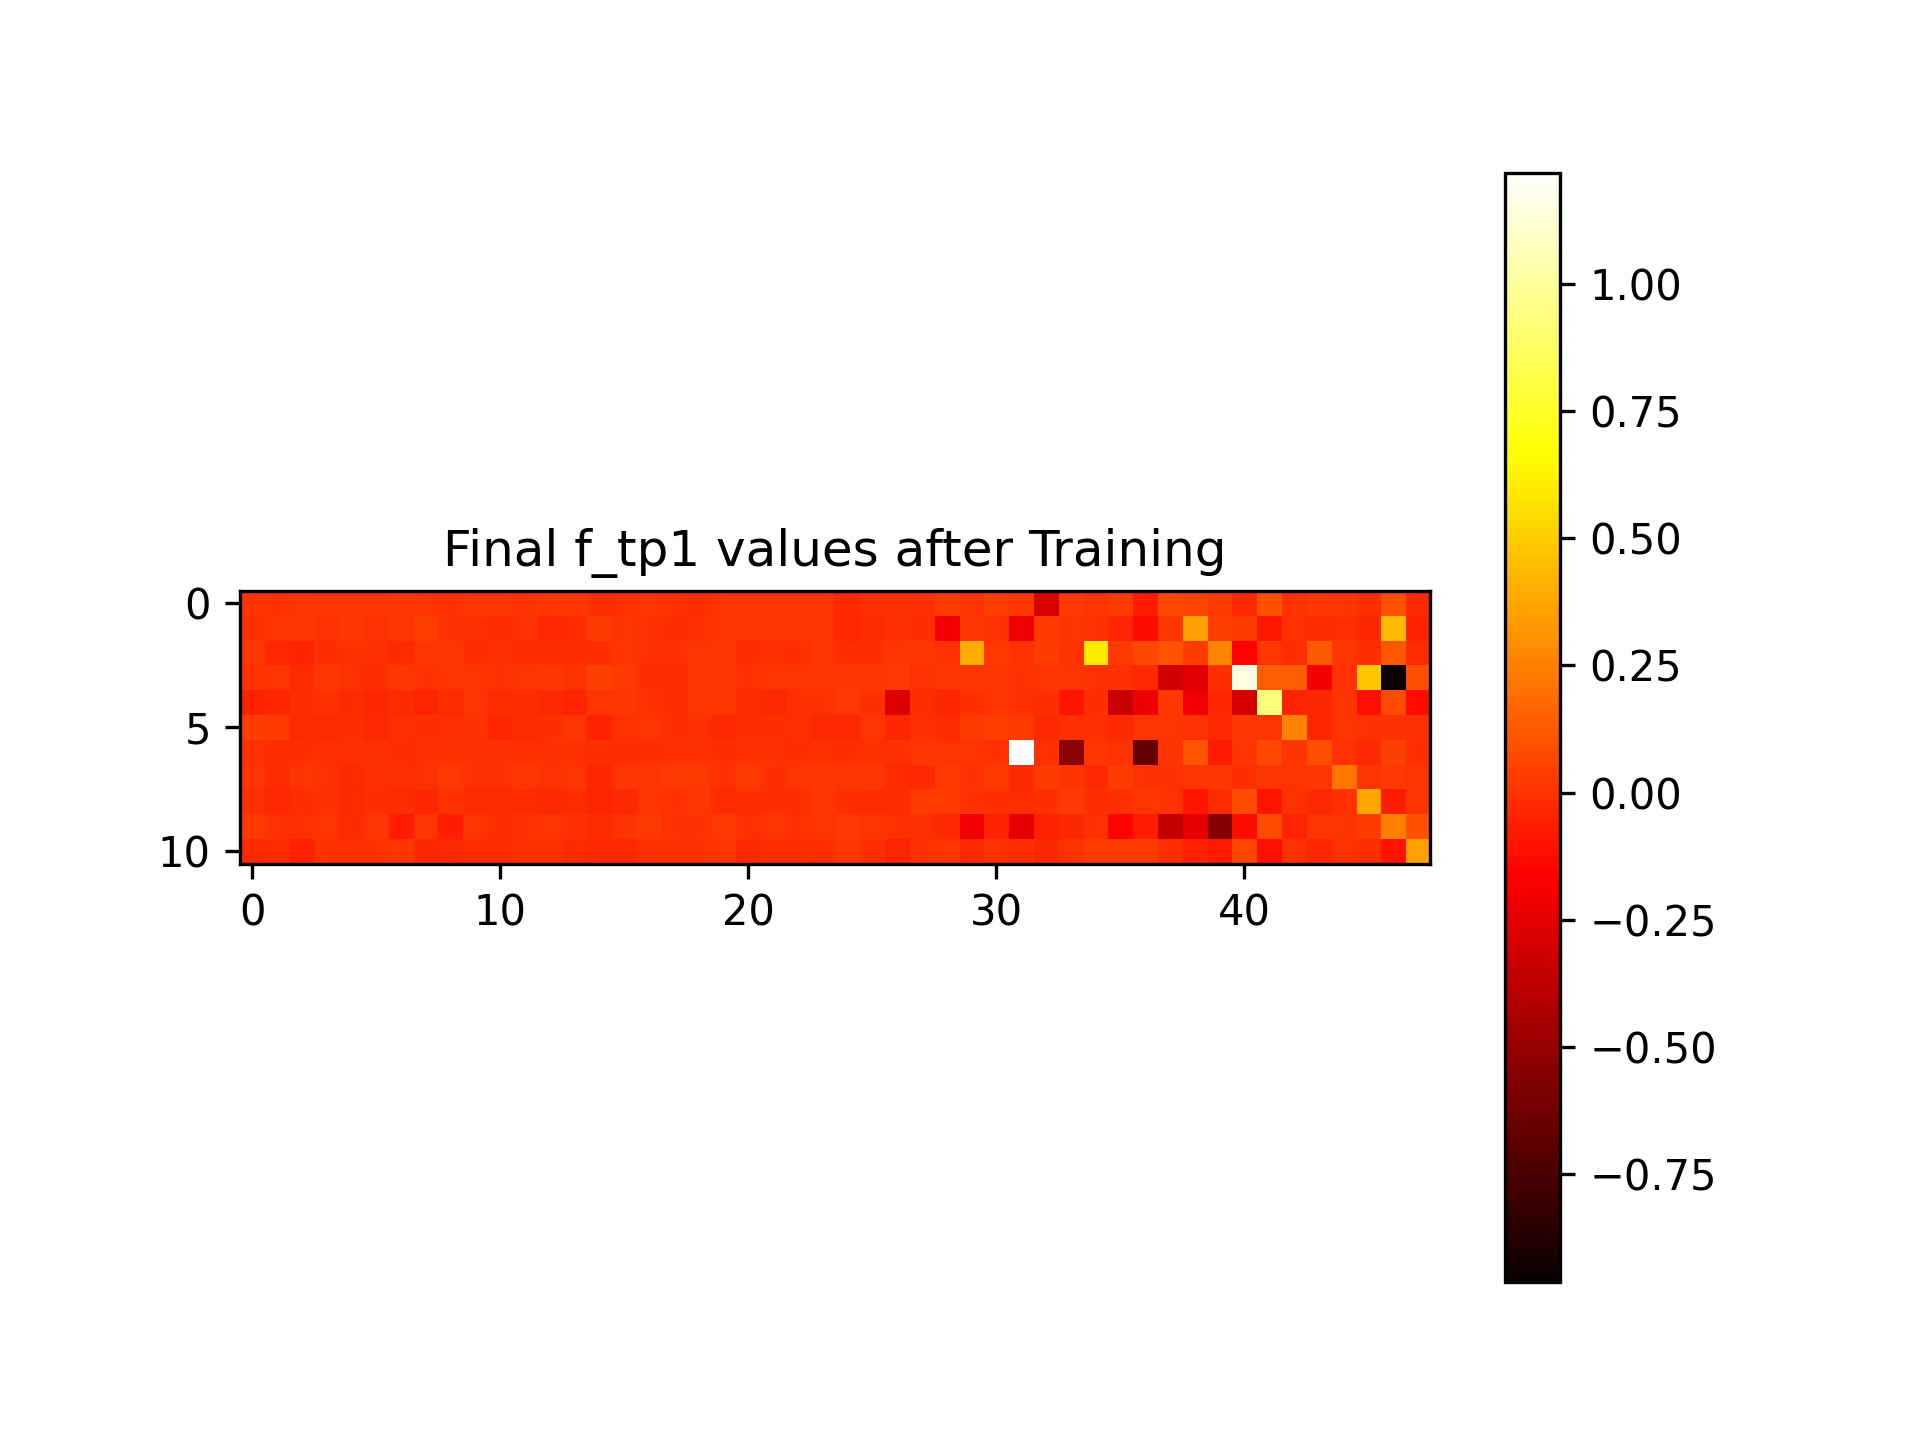
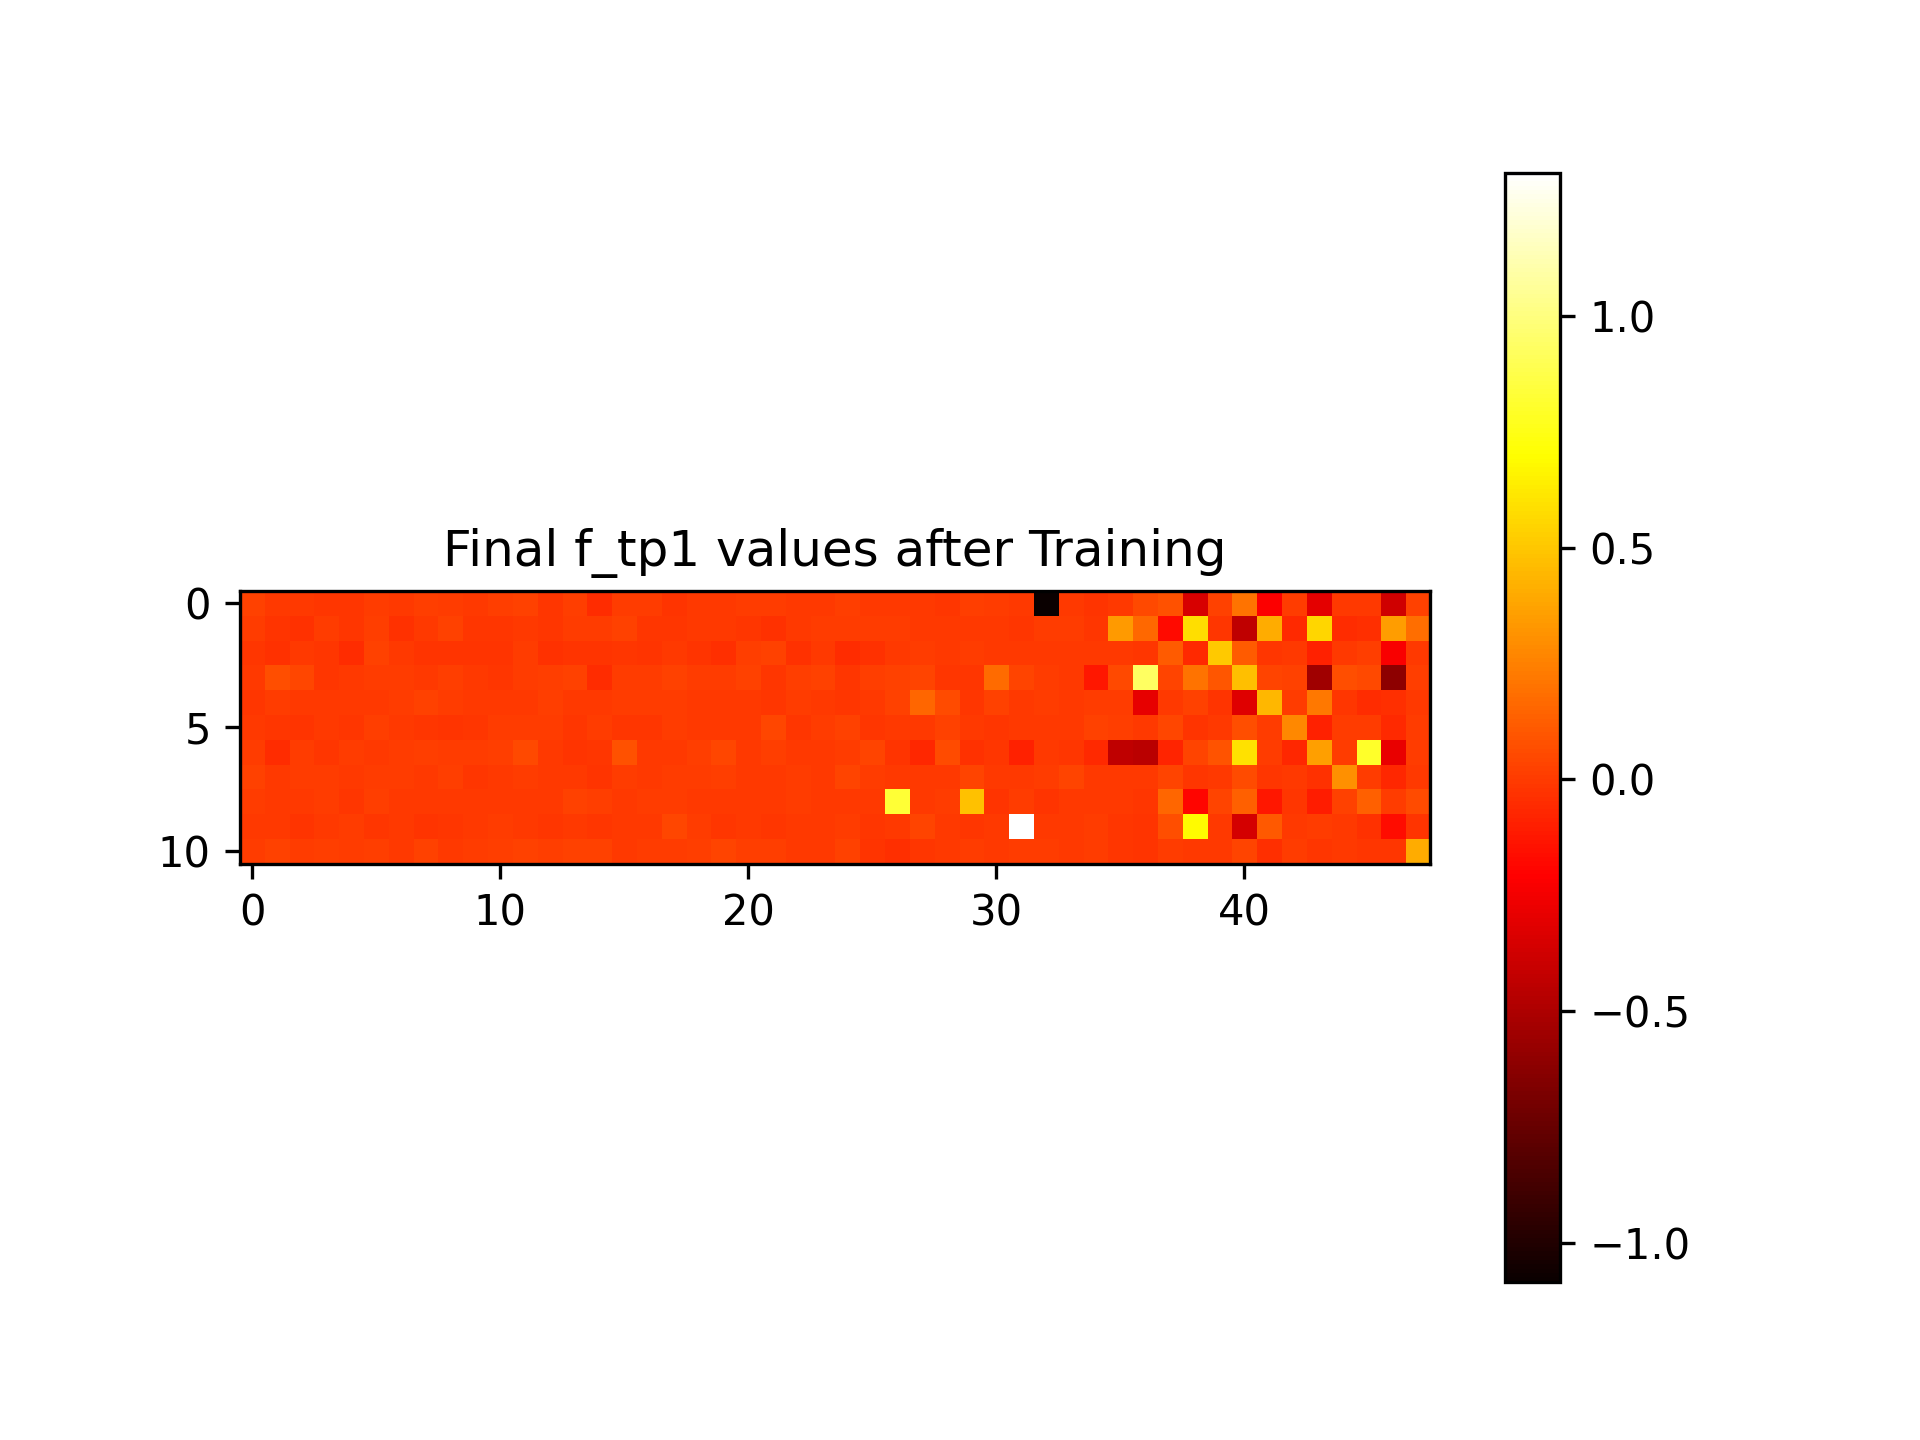
plot added

diff --git a/.ipynb_checkpoints/script_EI-checkpoint.py b/.ipynb_checkpoints/script_EI-checkpoint.py
@@ -23,6 +23,11 @@ class STPNR(torch.nn.Module):
         self._input_size = input_size
         self._hidden_size = hidden_size
         self._output_size = output_size
+        
+        self.ei_mask = torch.ones(hidden_size, hidden_size + input_size)
+        # Assuming first 4/5 are excitatory and last 1/5 are inhibitory
+        num_inhibitory = hidden_size // 5
+        self.ei_mask[-num_inhibitory:, :] = -1
 
         # --- Parameters ---
         init_k = 1 / math.sqrt(self._hidden_size)
@@ -81,7 +86,7 @@ def main(config):
         batch_size=batch_size,
         data_path=DATA,
         onehot=True,
-        train_size=5000,
+        train_size=10000,
         valid_size=5000,
         test_size=1000,
     )
@@ -90,7 +95,7 @@ def main(config):
 
     net = STPNR(
         input_size=37,  # alphabet character + digits + '?' sign
-        hidden_size=11,
+        hidden_size=50,
         output_size=output_size,  # predict possibly any character
     )
 
@@ -99,7 +104,7 @@ def main(config):
     loss_function = torch.nn.CrossEntropyLoss()
     optimizer = torch.optim.Adam(net.parameters(), lr=0.001)
 
-    n_epochs, best_validation_acc = 200, -float('inf')
+    n_epochs, best_validation_acc = 100, -float('inf')
     #change to 200
     for i_epoch in range(1, n_epochs + 1):
         for sentence, tags in train_dataloader:
@@ -113,6 +118,14 @@ def main(config):
             loss = loss_function(tag_scores.view(-1, output_size), tags.view(-1))
             loss.backward()
             optimizer.step()
+            with torch.no_grad():
+                # First 4/5 are excitatory (E units), set negative weights to 0
+                num_excitatory = 4 * net.weight.shape[0] // 5
+                net.weight.data[:num_excitatory] = torch.clamp(net.weight.data[:num_excitatory], min=0)
+
+                # Last 1/5 are inhibitory (I units), set positive weights to 0
+                num_inhibitory = net.weight.shape[0] // 5
+                net.weight.data[-num_inhibitory:] = torch.clamp(net.weight.data[-num_inhibitory:], max=0)
 
         with torch.no_grad():
             acc = 0
@@ -132,8 +145,7 @@ def main(config):
             print("Best validation accuracy", best_validation_acc)
             print("Last validation accuracy", last_validation_acc)
             print("Last loss", f"{loss.cpu().item():4f}")
-  
-        if i_epoch == n_epochs:
+        ''' if i_epoch == n_epochs:
             sentence, _ = next(iter(validation_dataloader))  # Get a sample batch
             sentence = sentence.to(device)
             _, states = net(sentence, states=None)
@@ -150,8 +162,39 @@ def main(config):
             plt.title('Final f_tp1 values after Training')
 
             # Specify the filename and path here
-            plt.savefig('final_f_tp1_plot.png', dpi=300)
+            plt.savefig('final_f_tp1_plot_EI.png', dpi=300)
+            plt.close() ''' 
+            
+        if i_epoch == n_epochs:
+            sentence, _ = next(iter(validation_dataloader))  # Get a sample batch
+            sentence = sentence.to(device)
+            _, states = net(sentence, states=None)
+            final_f_tp1 = states[1].detach().cpu().numpy()  # Only need states[1]
+            print(final_f_tp1.shape)
+
+        if final_f_tp1 is not None:
+            num_inputs = 37  # Use the provided input_size
+            num_excitatory = 4 * (final_f_tp1.shape[2] - num_inputs) // 5  # 4/5 are E units
+
+            # Adjust indices to exclude input weights
+            e_to_e_mean = np.mean(final_f_tp1[:, :num_excitatory, num_inputs:num_excitatory+num_inputs])
+            e_to_i_mean = np.mean(final_f_tp1[:, num_excitatory:, num_inputs:num_excitatory+num_inputs])
+
+            # Plotting the means as bars
+            plt.bar(['E-to-E', 'E-to-I'], [e_to_e_mean, e_to_i_mean], color=['red', 'blue'])
+            plt.ylabel('Average Weight')
+            plt.title('Average Weights in E-I Network')
+            plt.savefig('average_weights_EI.png', dpi=300)
             plt.close()
+
+            # Plotting and saving the original weight matrix
+            mean_f_tp1 = np.mean(final_f_tp1, axis=0)
+            plt.imshow(mean_f_tp1, cmap='hot', interpolation='nearest')
+            plt.colorbar()
+            plt.title('Final f_tp1 Matrix')
+            plt.savefig('matrix_syn.png', dpi=300)
+            plt.close()
+
 
 
 

diff --git a/script_EI.py b/script_EI.py
@@ -23,6 +23,11 @@ class STPNR(torch.nn.Module):
         self._input_size = input_size
         self._hidden_size = hidden_size
         self._output_size = output_size
+        
+        self.ei_mask = torch.ones(hidden_size, hidden_size + input_size)
+        # Assuming first 4/5 are excitatory and last 1/5 are inhibitory
+        num_inhibitory = hidden_size // 5
+        self.ei_mask[-num_inhibitory:, :] = -1
 
         # --- Parameters ---
         init_k = 1 / math.sqrt(self._hidden_size)
@@ -81,7 +86,7 @@ def main(config):
         batch_size=batch_size,
         data_path=DATA,
         onehot=True,
-        train_size=5000,
+        train_size=10000,
         valid_size=5000,
         test_size=1000,
     )
@@ -90,7 +95,7 @@ def main(config):
 
     net = STPNR(
         input_size=37,  # alphabet character + digits + '?' sign
-        hidden_size=11,
+        hidden_size=50,
         output_size=output_size,  # predict possibly any character
     )
 
@@ -99,7 +104,7 @@ def main(config):
     loss_function = torch.nn.CrossEntropyLoss()
     optimizer = torch.optim.Adam(net.parameters(), lr=0.001)
 
-    n_epochs, best_validation_acc = 200, -float('inf')
+    n_epochs, best_validation_acc = 100, -float('inf')
     #change to 200
     for i_epoch in range(1, n_epochs + 1):
         for sentence, tags in train_dataloader:
@@ -113,6 +118,14 @@ def main(config):
             loss = loss_function(tag_scores.view(-1, output_size), tags.view(-1))
             loss.backward()
             optimizer.step()
+            with torch.no_grad():
+                # First 4/5 are excitatory (E units), set negative weights to 0
+                num_excitatory = 4 * net.weight.shape[0] // 5
+                net.weight.data[:num_excitatory] = torch.clamp(net.weight.data[:num_excitatory], min=0)
+
+                # Last 1/5 are inhibitory (I units), set positive weights to 0
+                num_inhibitory = net.weight.shape[0] // 5
+                net.weight.data[-num_inhibitory:] = torch.clamp(net.weight.data[-num_inhibitory:], max=0)
 
         with torch.no_grad():
             acc = 0
@@ -132,8 +145,7 @@ def main(config):
             print("Best validation accuracy", best_validation_acc)
             print("Last validation accuracy", last_validation_acc)
             print("Last loss", f"{loss.cpu().item():4f}")
-  
-        if i_epoch == n_epochs:
+        ''' if i_epoch == n_epochs:
             sentence, _ = next(iter(validation_dataloader))  # Get a sample batch
             sentence = sentence.to(device)
             _, states = net(sentence, states=None)
@@ -150,8 +162,39 @@ def main(config):
             plt.title('Final f_tp1 values after Training')
 
             # Specify the filename and path here
-            plt.savefig('final_f_tp1_plot.png', dpi=300)
+            plt.savefig('final_f_tp1_plot_EI.png', dpi=300)
+            plt.close() ''' 
+            
+        if i_epoch == n_epochs:
+            sentence, _ = next(iter(validation_dataloader))  # Get a sample batch
+            sentence = sentence.to(device)
+            _, states = net(sentence, states=None)
+            final_f_tp1 = states[1].detach().cpu().numpy()  # Only need states[1]
+            print(final_f_tp1.shape)
+
+        if final_f_tp1 is not None:
+            num_inputs = 37  # Use the provided input_size
+            num_excitatory = 4 * (final_f_tp1.shape[2] - num_inputs) // 5  # 4/5 are E units
+
+            # Adjust indices to exclude input weights
+            e_to_e_mean = np.mean(final_f_tp1[:, :num_excitatory, num_inputs:num_excitatory+num_inputs])
+            e_to_i_mean = np.mean(final_f_tp1[:, num_excitatory:, num_inputs:num_excitatory+num_inputs])
+
+            # Plotting the means as bars
+            plt.bar(['E-to-E', 'E-to-I'], [e_to_e_mean, e_to_i_mean], color=['red', 'blue'])
+            plt.ylabel('Average Weight')
+            plt.title('Average Weights in E-I Network')
+            plt.savefig('average_weights_EI.png', dpi=300)
             plt.close()
+
+            # Plotting and saving the original weight matrix
+            mean_f_tp1 = np.mean(final_f_tp1, axis=0)
+            plt.imshow(mean_f_tp1, cmap='hot', interpolation='nearest')
+            plt.colorbar()
+            plt.title('Final f_tp1 Matrix')
+            plt.savefig('matrix_syn.png', dpi=300)
+            plt.close()
+
 
 
 
